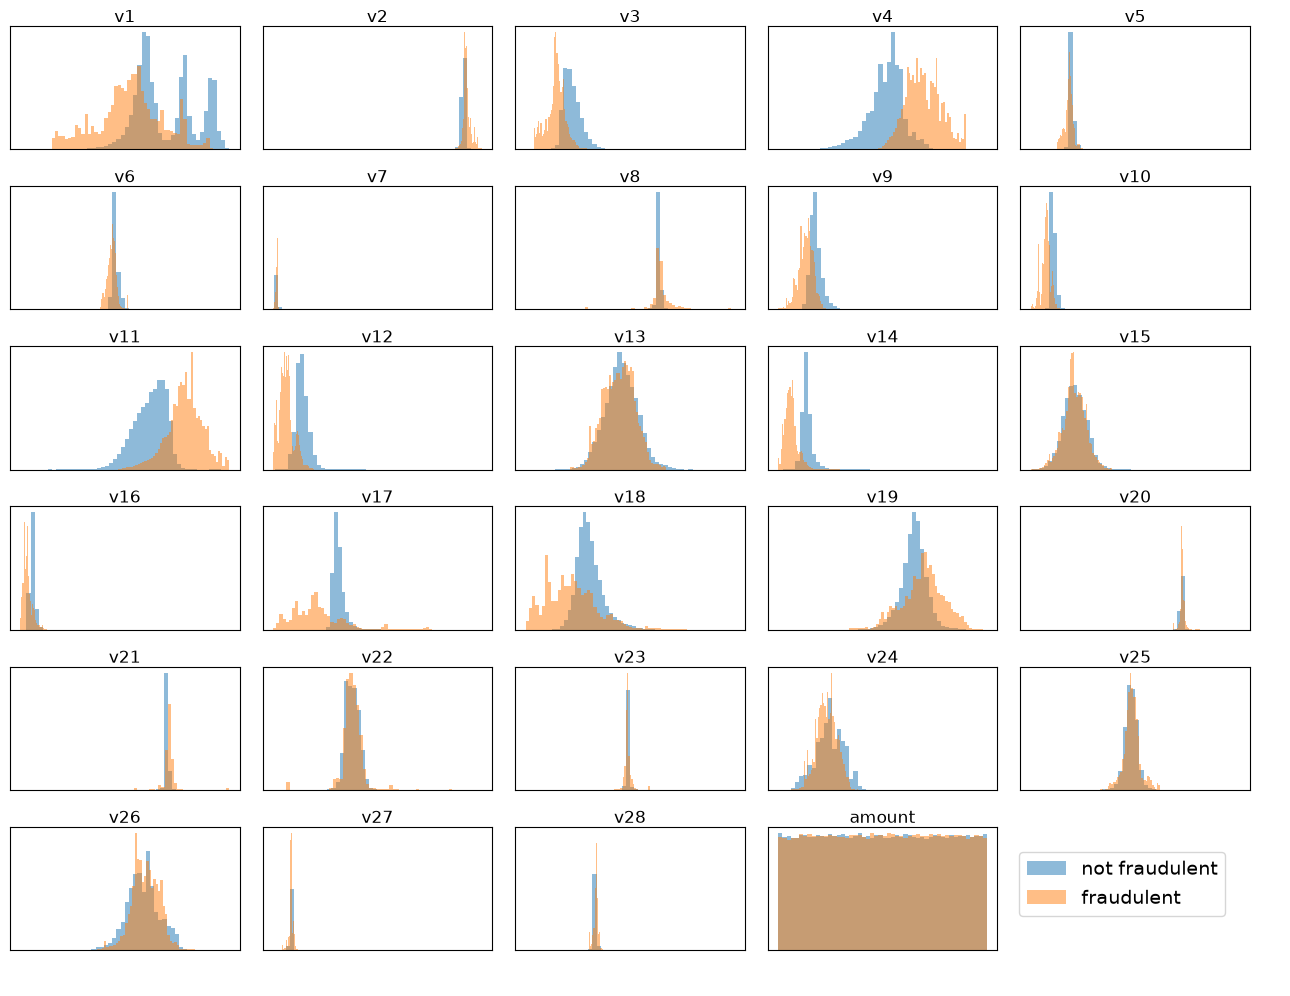
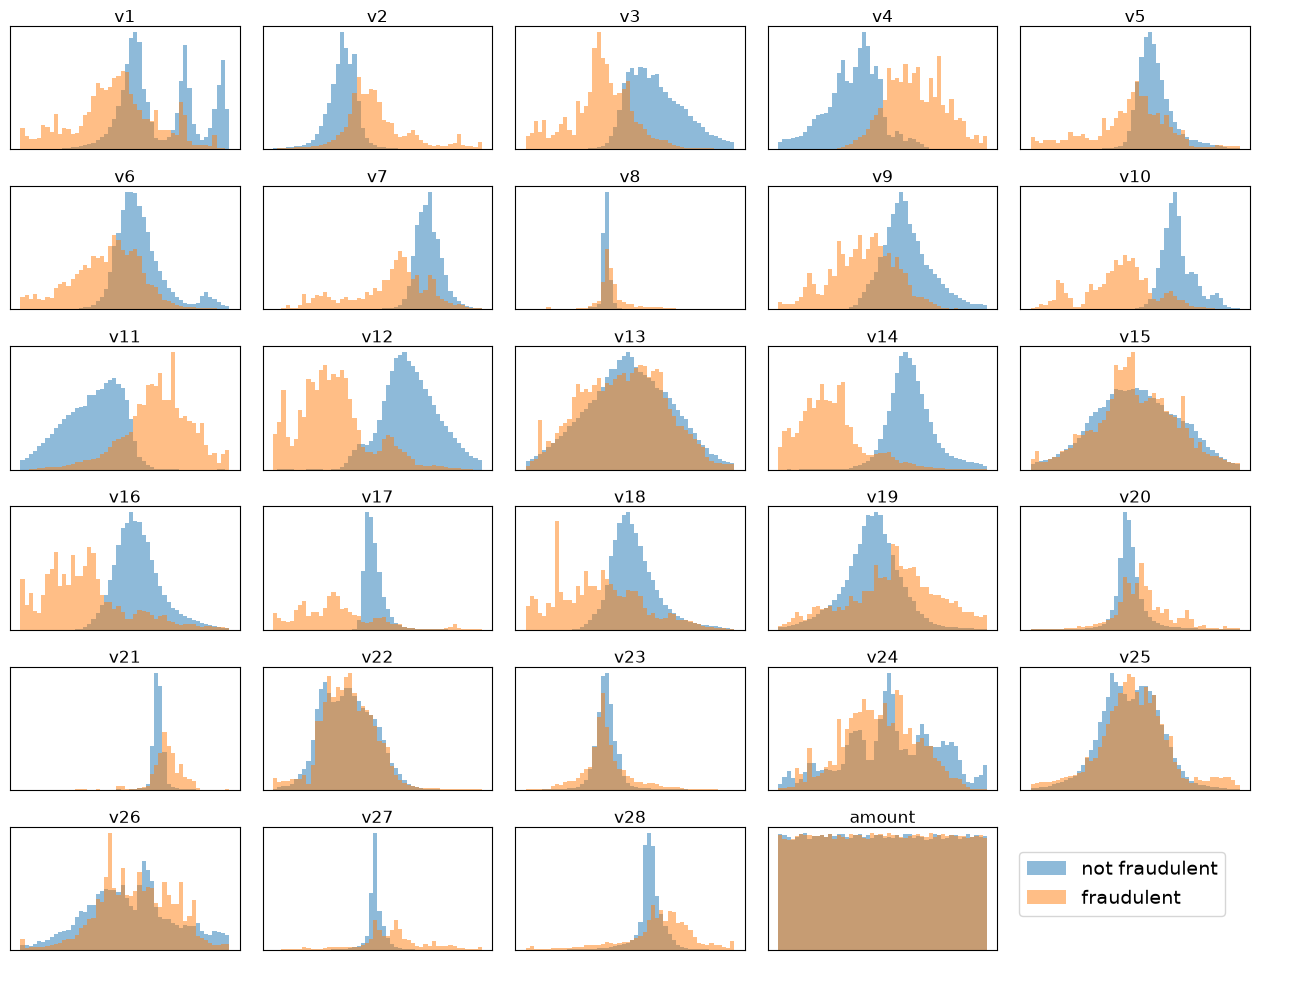
create scatterplot matrix and fix readability of other plots

diff --git a/app/datavisual.py b/app/datavisual.py
@@ -12,20 +12,20 @@ def histograms(engine: Engine, bins: np.uint32 | None):
     df1 = pd.read_sql(f"""SELECT {",".join(f"v{i}" for i in range(1, 29))},amount 
                         FROM fraud_data WHERE split = 'TRAIN' AND class = 1""", engine)
 
-    print(df0.shape[0],df1.shape[0])
+    fig, axes = plt.subplots(nrows=6,ncols=5,figsize=(16, 12))
+    axes = axes.flatten()
+    bins = bins or 50
 
-    axes = df0.hist(grid=False,bins=(bins or 50),figsize=(16, 12), alpha=0.5, label="not fraudulent").flatten()
     for ax, col in zip(axes, df1):
-        df1[col].hist(grid=False,bins=(bins or 50),figsize=(16, 12), alpha=0.5, label="fraudulent", ax=ax)
-        for patch in ax.patches:
-            patch.set_height(patch.get_height()/patch.get_width())
-        ax.relim()
-        ax.autoscale_view()
+        xlim = np.percentile(pd.concat([df0[col],df1[col]]), [1, 99])
+        bins_vec = np.linspace(*xlim, bins+1)
+        ax.hist(df0[col], bins=bins_vec, alpha=0.5, label="not fraudulent")
+        ax.hist(df1[col], bins=bins_vec, alpha=0.5, label="fraudulent")
         ax.set_xticks([])
         ax.set_yticks([])
-        ax.set_title(ax.get_title(), fontsize=12, pad=2)
+        ax.set_title(col, fontsize=12, pad=2)
 
-    fig = axes[0].get_figure()
+    fig.delaxes(axes[-1])
     handles, labels = axes[0].get_legend_handles_labels()
     fig.legend(handles, labels, loc=(0.79,0.08), fontsize=14, markerscale=3)
     plt.subplots_adjust(wspace=0.1, hspace=0.3)
@@ -42,28 +42,52 @@ def qqplots(engine: Engine):
     axes = axes.flatten()
 
     for ax, col in zip(axes, df0):
-        sp.stats.probplot(sp.stats.zscore(df0[col]), dist="norm", plot=ax)
-        sp.stats.probplot(sp.stats.zscore(df1[col]), dist="norm", plot=ax)
+        sp.stats.probplot(sp.stats.zscore(df0[col]), dist="norm", fit=False, plot=ax)
+        sp.stats.probplot(sp.stats.zscore(df1[col]), dist="norm", fit=False, plot=ax)
         ax.set_xticks([])
         ax.set_yticks([])
         ax.set_xlabel('')
         ax.set_ylabel('')
         ax.set_title(col, fontsize=12, pad=2)
-        ax.get_lines()[0].set_markersize(1.5)
+        ax.get_lines()[0].set_markersize(1)
         ax.get_lines()[0].set_color('blue')
-        ax.get_lines()[1].set_color('black')
-        ax.get_lines()[2].set_markersize(1.5)
-        ax.get_lines()[2].set_color('red')
-        ax.get_lines()[3].set_color('black')
+        ax.get_lines()[1].set_markersize(1)
+        ax.get_lines()[1].set_color('red')
+        ax.axline((0, 0), slope=1, color="black", linestyle="--")
+        y0 = np.percentile(ax.get_lines()[0].get_ydata(), [0.1, 99.9])
+        y1 = np.percentile(ax.get_lines()[1].get_ydata(), [0.1, 99.9])
+        ax.set_ylim(min(y0[0], y1[0]), max(y0[1], y1[1]))
+        x0 = np.percentile(ax.get_lines()[0].get_xdata(), [0.1, 99.9])
+        x1 = np.percentile(ax.get_lines()[1].get_xdata(), [0.1, 99.9])
+        ax.set_xlim(min(x0[0], x1[0]), max(x0[1], x1[1]))
             
     fig.delaxes(axes[-1])
     fig.delaxes(axes[-2])
 
-    fig.legend(handles=[ax.get_lines()[0], ax.get_lines()[2]],
+    fig.legend(handles=[ax.get_lines()[0], ax.get_lines()[1]],
             labels=['not fraudulent', 'fraudulent'], loc=(0.75,0.08), fontsize=14, markerscale=3)
     plt.subplots_adjust(wspace=0.1, hspace=0.3)
     plt.savefig("plots/QQplots.png", bbox_inches="tight")
 
 
-def two_features_corr():
-    pass
+def scatterplot_matrix(engine: Engine):
+    df = pd.read_sql(f"""SELECT {",".join(f"v{i}" for i in range(1, 29))},amount 
+                            FROM fraud_data WHERE split = 'TRAIN' LIMIT 10000""", engine)
+    df.rename(columns={"amount":"amt"},inplace=True)
+
+    fig, axes = plt.subplots(nrows=29,ncols=29,figsize=(64, 64))
+    for axes_x, col_x in zip(axes[:,],df):
+        for ax, col_y in zip(axes_x,df):
+            if col_x != col_y:
+                ax.scatter(df[col_x], df[col_y],s=0.05)
+                ax.set_xlim(np.percentile(df[col_x], [1, 99]))
+                ax.set_ylim(np.percentile(df[col_y], [1, 99]))
+            else:
+                ax.text(0.5, 0.5, col_x, fontsize=40,
+                        transform=ax.transAxes,
+                        ha='center', va='center')
+            ax.set_xticks([])
+            ax.set_yticks([])
+
+    plt.subplots_adjust(wspace=0.05, hspace=0.05)
+    plt.savefig("plots/scatterplots.png", bbox_inches="tight")

diff --git a/app/main.py b/app/main.py
@@ -12,7 +12,8 @@ def help_message():
     help - print this message
     init [<seed>] - initialize data from Kaggle
     histo [<bins>] - create histograms for features
-    qqplot - create Q-Q plots for features""")
+    qqplot - create Q-Q plots for features
+    scatter - create scatter plot matrix for features""")
 
 if __name__ == "__main__":
     
@@ -20,7 +21,7 @@ if __name__ == "__main__":
     
     parser = ArgumentParser()
     parser.add_argument('command', type=str, 
-        choices=['help','init','histo','qqplot'])
+        choices=['help','init','histo','qqplot','scatter'])
     parser.add_argument("number", type=np.int32, nargs="?")
     args = parser.parse_args()
 
@@ -32,3 +33,5 @@ if __name__ == "__main__":
         datavisual.histograms(engine,args.number)
     elif args.command == 'qqplot':
         datavisual.qqplots(engine)
+    elif args.command == 'scatter':
+        datavisual.scatterplot_matrix(engine)
